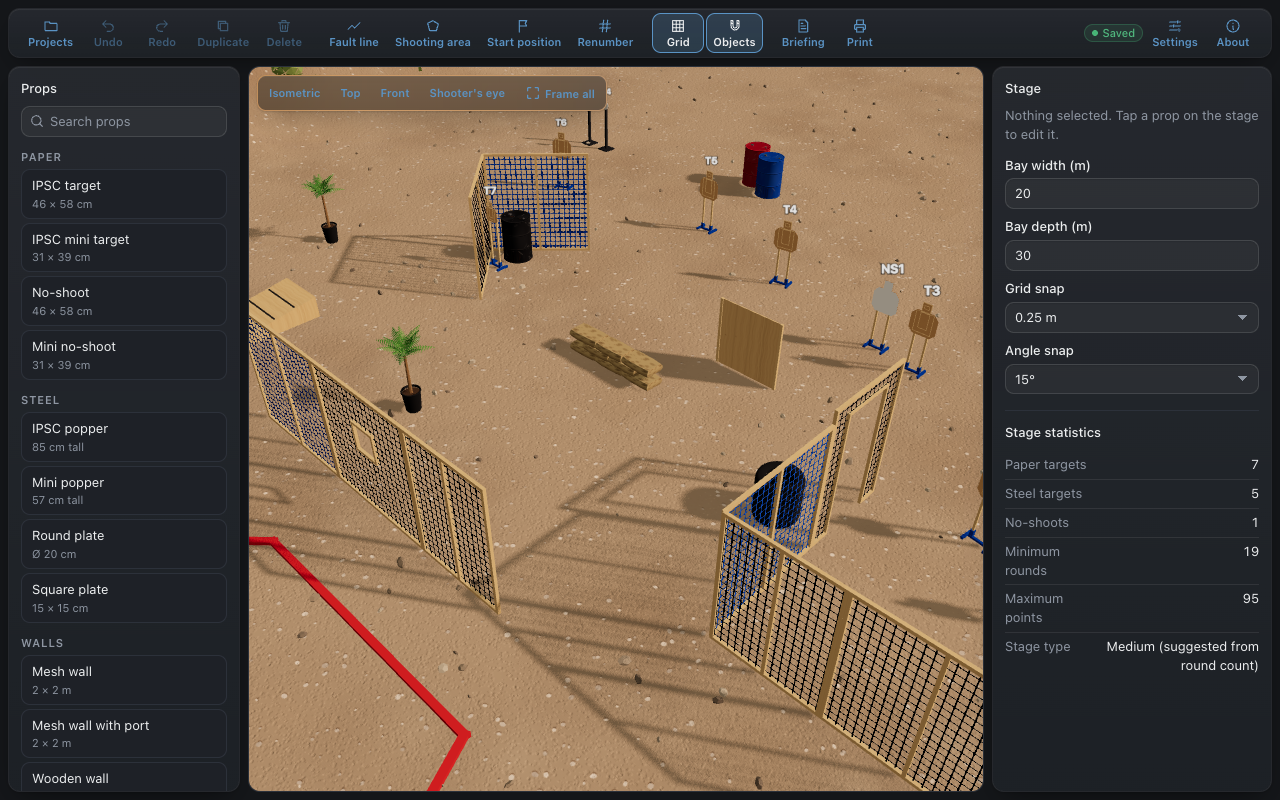
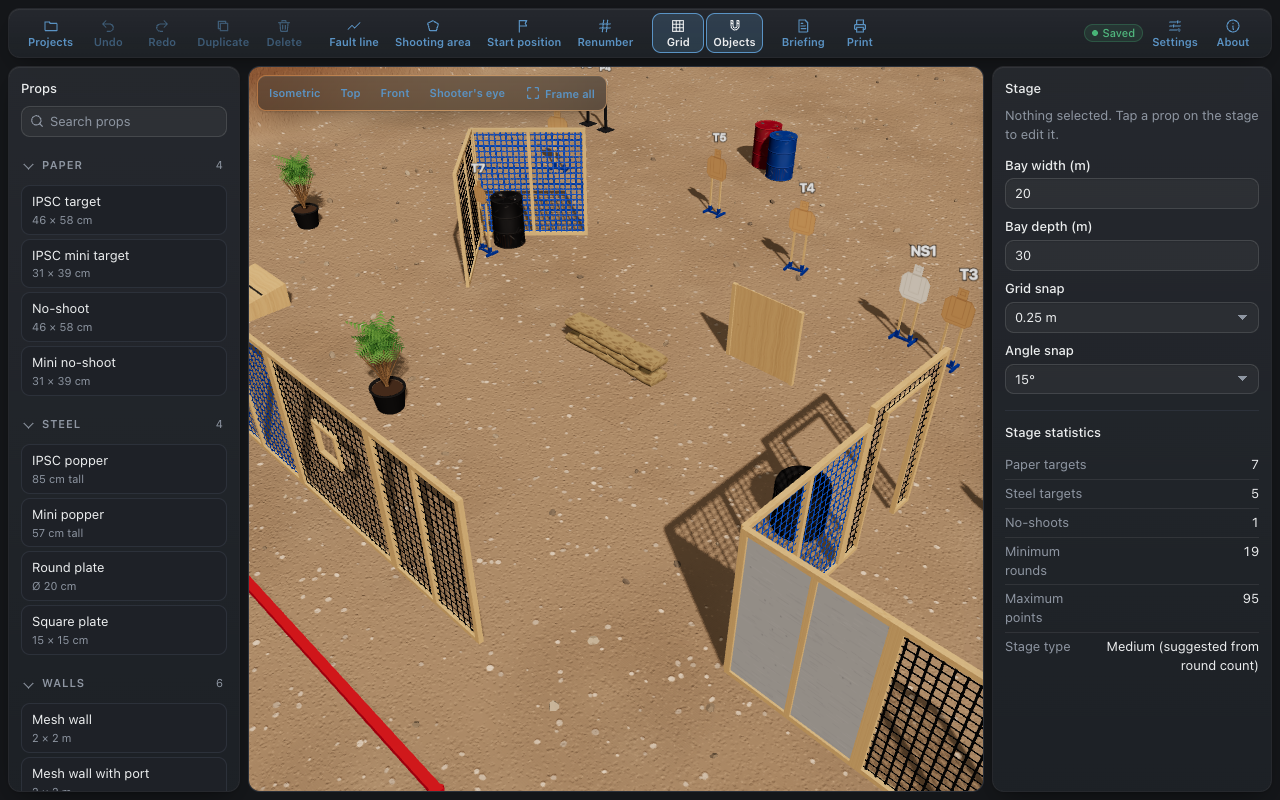
docs: collapsible library and the reference range look

Changed region(s): [[0.1875, 0.125, 0.7812, 1.0], [0.0, 0.1875, 0.0938, 1.0], [0.1875, 0.0625, 0.3125, 0.125]]

diff --git a/README.md b/README.md
@@ -20,7 +20,8 @@ training, and want a clear briefing sheet without drawing the map by hand.
   - steel: IPSC popper, mini popper, round plate, square plate
   - walls: mesh wall and mesh wall with port (black or blue 10 cm wire mesh, pine or black frame),
     wooden wall, wooden wall with port; ports are real openings
-  - mesh doorway (a wall with a door opening; it snaps like the other walls)
+  - mesh doorway (a wall with a door opening) and solid panel (a grey sheet in a pine frame);
+    both snap like the other walls
   - structures: ramp, platform
   - obstacles and range furniture: worn steel barrel (black, blue, red, green), tyre, tyre stack,
     board crate, potted plant, car, table, chair, pallets, sandbag wall, traffic cone
@@ -55,6 +56,11 @@ not supported: below 768 px wide the app asks you to use a larger screen. Englis
 ## What's new
 
 ### Unreleased
+
+- Prop groups in the library fold open and closed (remembered; a search opens matching groups).
+- The look of a real club range: chunky pine frames, bold black and royal-blue mesh, a new
+  solid panel wall, targets with printed scoring zones, chunky yellow and white poppers, heavy
+  red fault-line timber, dense potted palms, steep dirt banks with shrubs and crisper light.
 
 - Environment settings (toolbar *Settings*): surroundings, time of day, sunlight, ambient light,
   shadows, shadow softness, haze and exposure.
@@ -135,11 +141,11 @@ Stage settings are in the inspector when nothing is selected. They are saved wit
 | Object snap | Toolbar *Objects*: a wall's end jumps onto another wall's end within 35 cm | On |
 | Angle snap | Rotations snap to this step: off, 5°, 15°, 45° or 90° | 15° |
 | Surroundings | *Settings*: Outdoor (dirt range) or Technical (grey floor, grid); never moves the stage | Outdoor |
-| Time of day | *Settings*: 06:00–20:00; the sun's height, direction and colour follow it | 17:30 |
+| Time of day | *Settings*: 06:00–20:00; the sun's height, direction and colour follow it | 16:30 |
 | Sunlight, Ambient light | *Settings*: 0–200 % | 100 % |
-| Shadows, Shadow softness | *Settings*: on/off, 0 (sharp) – 8 | On, 3 |
-| Haze | *Settings*: 0 (clear) – 100 % | 35 % |
-| Exposure | *Settings*: 0.5–1.6 | 1.05 |
+| Shadows, Shadow softness | *Settings*: on/off, 0 (sharp) – 8 | On, 1.5 |
+| Haze | *Settings*: 0 (clear) – 100 % (Outdoor only) | 25 % |
+| Exposure | *Settings*: 0.5–1.6 | 0.92 |
 
 Prop settings (inspector, one prop selected): label (targets), rotation, and per prop: mount height
 for paper targets (0.1–2 m, default 0.7 m to the target's bottom), base height for steel, plate size
@@ -155,7 +161,8 @@ is a suggestion from the round count.
 
 ## How to
 
-**Build a stage.** Pick a prop in the library on the left, then tap (or click) the ground to place it.
+**Build a stage.** The library on the left is grouped (Paper, Steel, Walls, Structures, Obstacles
+and range furniture); click a group's heading to fold it away. Pick a prop in the library, then tap (or click) the ground to place it.
 With a mouse you can also drag a prop from the library onto the stage. Drag a placed prop to move it;
 it snaps to the grid and stays inside the bay. Rotate the selected prop with the green ring, the
 ↺/↻ buttons in the inspector, or Q and E. Shift-click selects several props.

diff --git a/CHANGELOG.md b/CHANGELOG.md
@@ -4,6 +4,16 @@ All notable changes to Dynamic-Stagebuilder are listed here, newest first.
 
 ## Unreleased
 
+- Library: each prop group (Paper, Steel, Walls, Structures, Obstacles and range furniture) is
+  a collapsible section; the folded state is remembered per browser and a search opens groups
+  with matches.
+- Reference range look: 6 cm pine frames with a post at every panel, bold black wire mesh and a
+  denser royal-blue mesh, a new Solid panel wall (grey sheet, snaps like other walls), targets
+  with printed scoring-zone outlines, bevelled yellow/white poppers, 10 × 8 cm red fault-line
+  timber, dense areca palms, steep cut dirt banks with shrubs on top, crisper light (default
+  16:30, sharper shadows, exposure 0.92); the sun now passes on the shooter's side so target
+  faces are lit.
+
 - Environment settings dialog (toolbar *Settings*): surroundings (moved from the toolbar), time
   of day 06:00–20:00 driving the sun's position and colour, sunlight, ambient light, shadows,
   shadow softness, haze and exposure; `settings.look` in stage files (older files get defaults).
